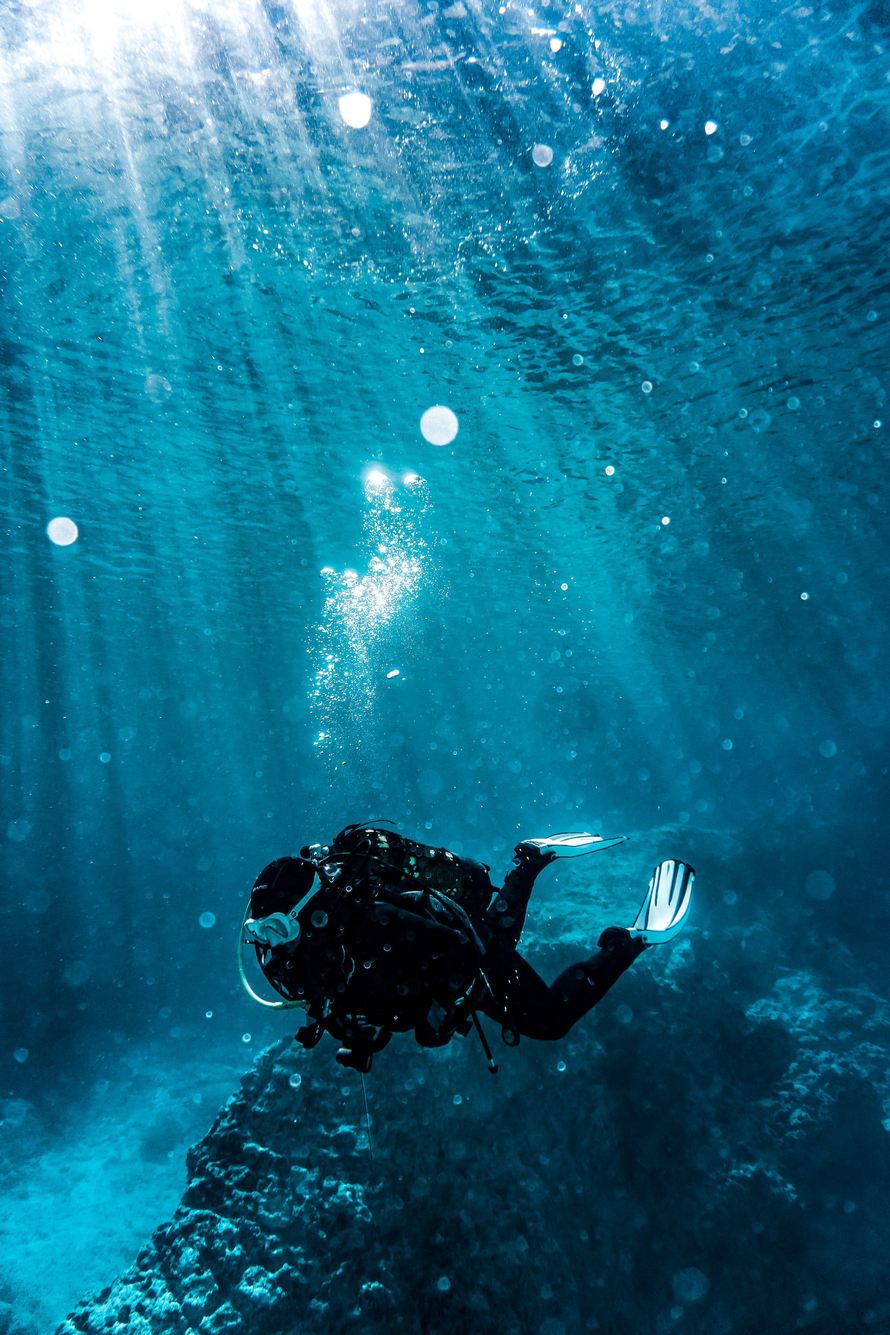
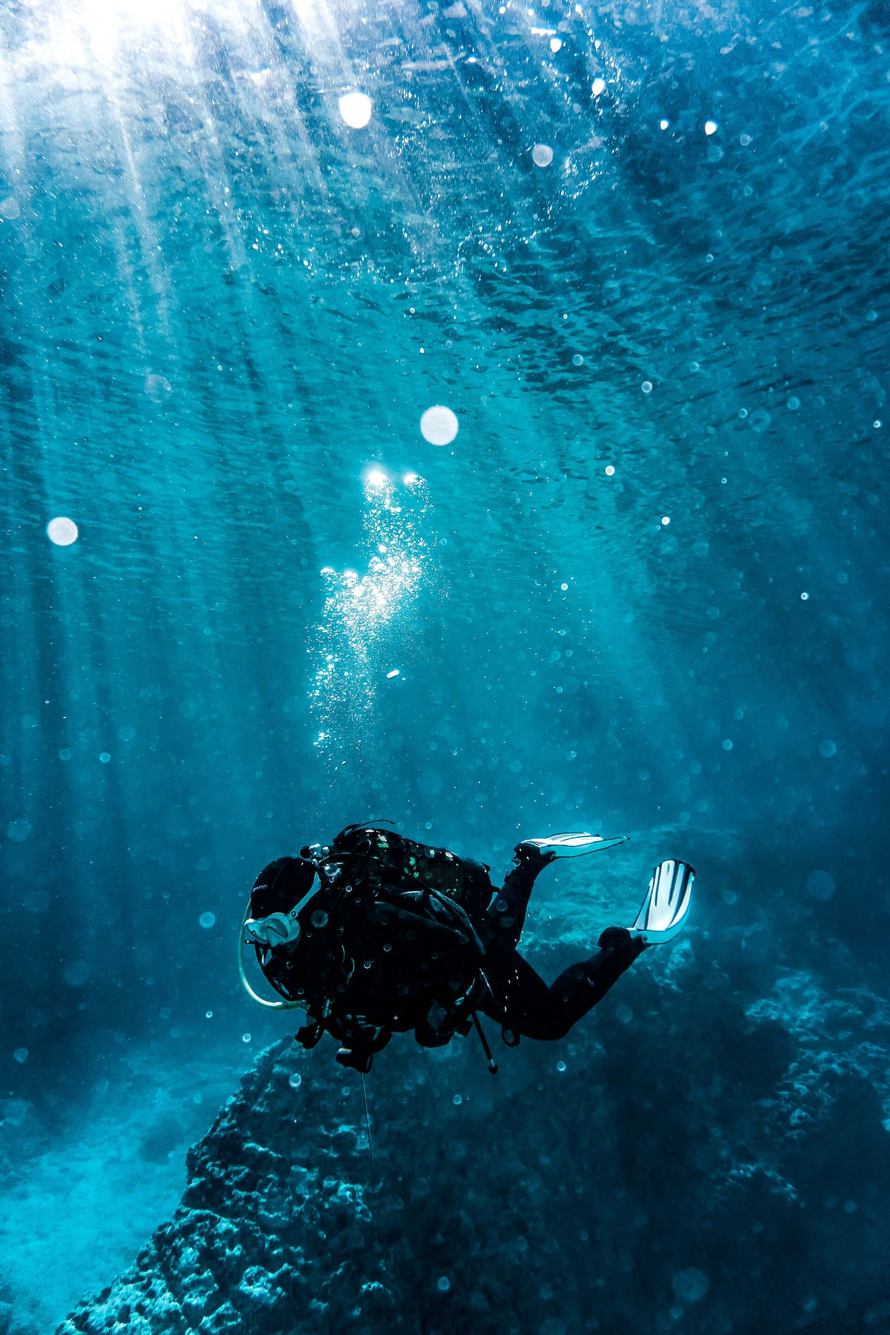
Set background body and bg-color form

Changed region(s): [[0.3438, 0.375, 0.5, 0.5625], [0.3438, 0.625, 0.375, 0.6562]]

diff --git a/styles.css b/styles.css
@@ -13,7 +13,7 @@ body {
   font-size: 18px;
   line-height: 1.4;
   color: #f5f6f7;
-  background-image: linear-gradient( 15deg, rgba(58, 58, 158, 0.4), rgba(136, 136, 206, 0.7) ), url(./Images/diving-emotion.jpg);
+  background-image: linear-gradient( 15deg, rgba(58, 58, 158, 0.4), rgba(136, 136, 206, 0.7) ), url(./Images/diving-fun.jpg);
   background-size: cover;
   background-repeat: no-repeat;
   background-position: center;
@@ -56,7 +56,7 @@ form {
   width: 80vw;
   max-width: 720px;
   min-width: 300px;
-  background-color: #252445e8;
+  background-color: #252445a8;
   border-radius: 4px;
 }
 
